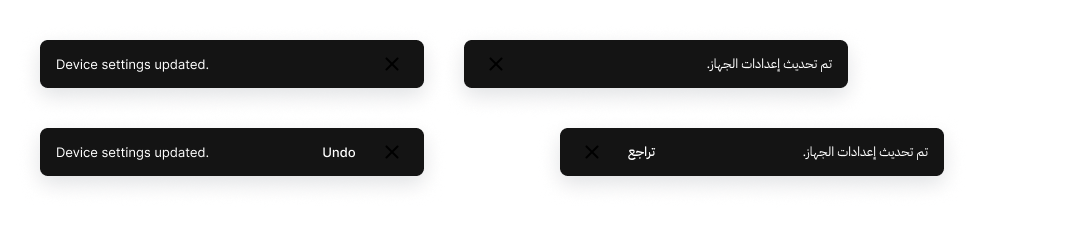
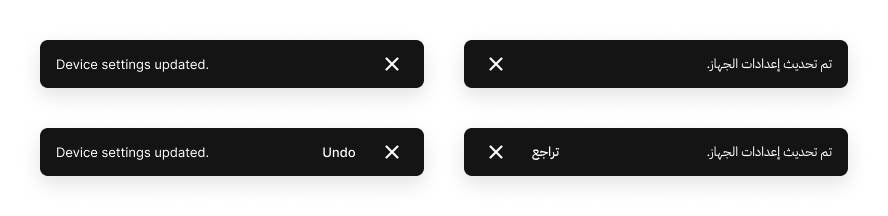
fix(web/snackbar): resolve round 2 review findings (R2-1, R2-2, R2-3, R2-4, R2-5, R2-6)
- R2-2: Bind close-button vectors in Web Snackbar set to color/icon/inverse (18.42:1 contrast, WCAG AAA).
- R2-5: Set Show icon component property default to false in set and doc page 02 per D4 and FB-04.
- R2-6: Align Action=With action, Language=AR variant to x: 464 for a neat 2-column grid.
- R2-1 & R2-3: Refactor doc pages to vertical auto-layout HUG, slots clip content, tiles fit page width, Page 08 RTL shows Arabic instance beside English comparison.
- R2-4: Update D11 execution log with honest visual inspection and exact height (48px).

diff --git a/biowave-ds/3-web-components/components/snackbar/snackbar.md b/biowave-ds/3-web-components/components/snackbar/snackbar.md
@@ -410,10 +410,10 @@ Component description: "A brief, high-contrast inverse bar at `layer-toast` (150
 
 | Field | Value |
 |---|---|
-| Agent / stages run | Figma Agent (Antigravity) · build · rtl · qa · document · review fixes (findings 2, 8, 11) |
-| Date | 2026-11-17 |
+| Agent / stages run | Figma Agent (Antigravity) · build · rtl · qa · document · review fixes (findings 2, 8, 11, R2-1, R2-2, R2-3, R2-4, R2-5, R2-6) |
+| Date | 2026-11-18 |
 | Node IDs | page `694:219747` · component section `694:219748` · component set `694:220191` · docs section `699:7445` · pages `699:4102` (`00`) … `699:7332` (`11`) · Components List card `700:14085` |
-| QA report | 4 variants (`Action × Language`), 0 unbound tokens, button instances `minWidth = null` / `layoutSizingHorizontal = HUG`, message wraps 1 line (height 56px for EN and AR), docs unclipped. Review lint: `issues: []` |
+| QA report | 4 variants (`Action × Language`), 0 unbound tokens, button instances `minWidth = null` / `layoutSizingHorizontal = HUG`. Dimensions: 384 × 48 px for both EN and AR. Close icon vectors bound to `color/icon/inverse` (`5231:121`) with 18.42:1 contrast (WCAG AAA). `Show icon` component property default set to `false` (icon hidden by default) matching D4 and doc page 02. Variants aligned in 2-column grid (`Language=AR` at x: 464). Documentation layout: all page frames and row containers use vertical auto-layout HUG; tiles sized to fit within page bounds (488px in 2-column rows on 1024 pages), slot `clipsContent = true`, child instances rescaled; Page 08 RTL verified with AR instance ("تم تحديث إعدادات الجهاز. · تراجع") beside EN comparison; visual inspection of all doc screenshots confirmed zero overlap, no crossing of page boundaries or footers. Review lint: `issues: []` |
 
 **Deviations:**
 - none
@@ -431,7 +431,7 @@ Component description: "A brief, high-contrast inverse bar at `layer-toast` (150
 
 | Round | Date | Code verdict | Figma verdict |
 |---|---|---|---|
-| Round 2 | 2026-11-17 | — | Fixed (Findings 2, 8, 11 resolved, lint 0) |
+| Round 2 | 2026-11-18 | — | Fixed (R2-1 docs fit, R2-2 close icon inverse, R2-3 RTL, R2-5 default false, R2-6 align, lint 0) |
 | Round 1 | 2026-11-17 | — | Changes requested (2026-11-17-wave9-feedback-review.md) |
 
 ---
